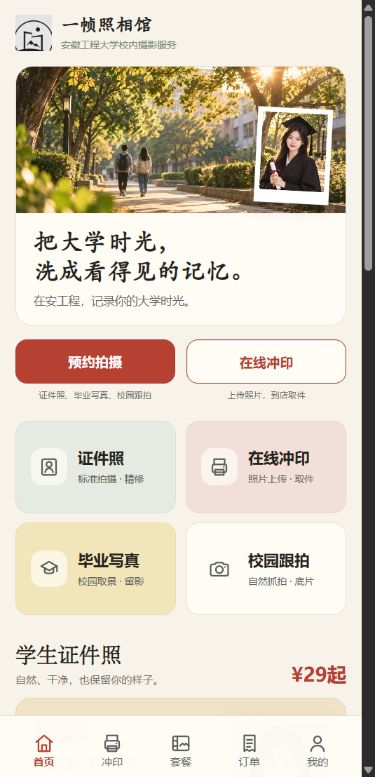
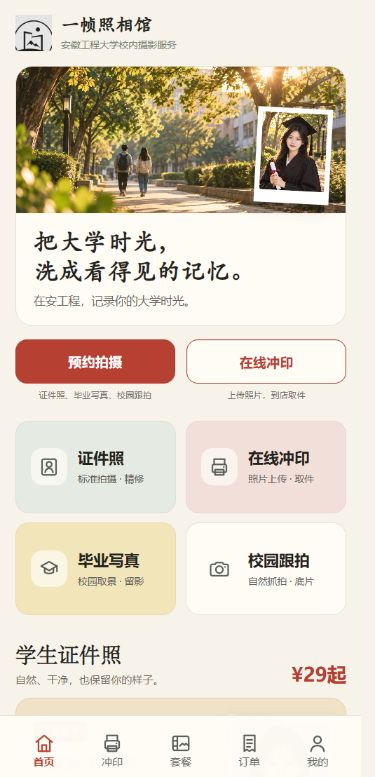
Wed, Sep 9, 2026, 7:56 07:56:18

Changed region(s): [[0.9387, 0.0, 1.0, 1.0]]

diff --git a/miniapp/design-qa.md b/miniapp/design-qa.md
@@ -1,0 +1,31 @@
+# miniapp 首页设计验收
+
+## 依据
+
+- 用户提供的小程序摄影工作室参考图与本轮文字规范
+- 实现截图：`miniapp/screenshots/home-375-first-screen.png`
+- 完整长图：`miniapp/screenshots/home-375-full.png`
+
+## 结果
+
+| 检查项 | 结果 | 证据 |
+|---|---|---|
+| 顶部品牌 | 通过 | 品牌栏中“一帧照相馆”仅出现一次；高度 68px；右侧预留微信胶囊区域 |
+| 主视觉 | 通过 | 270px；一张校园主图与一张小拍立得；标题固定两行 |
+| 主要服务 | 通过 | 两个按钮等宽、46px 高、`nowrap` |
+| 快捷入口 | 通过 | 2×2、96px 高；统一 1.8px 圆角线性 SVG 图标 |
+| 推荐内容 | 通过 | 证件照横向卡片；毕业写真横向滑动卡片 |
+| 一帧作品 | 通过 | 8 个不同场景；首页 15 个照片槽位无重复素材 ID |
+| 店铺信息 | 通过 | 地址为“一食堂楼下商铺103”；联系与位置均有反馈 |
+| TabBar | 通过 | 五项统一线性 SVG；22px；当前项砖红；无 Logo 与人物缩略图 |
+| 二维码 | 通过 | miniapp 源码未发现“二维码”“扫码取件”或 QR 组件引用 |
+| 375px | 通过 | 文档宽度与滚动宽度均为 375px；无横向溢出 |
+| 390px | 通过 | 文档宽度与滚动宽度均为 390px；无横向溢出 |
+| 414px | 通过 | 文档宽度与滚动宽度均为 414px；图片使用 `aspectFill` / `background-size: cover`，不拉伸 |
+| 底部安全区 | 通过 | 主内容底部保留约 92px；TabBar 单独适配安全区 |
+
+## 构建
+
+- `npm run check`：通过
+- `npm run build:mp -w miniapp`：通过
+- uni-app 构建仍输出项目既有的 Sass legacy API 和其他页面 `small` 选择器警告，不影响本次构建产物
